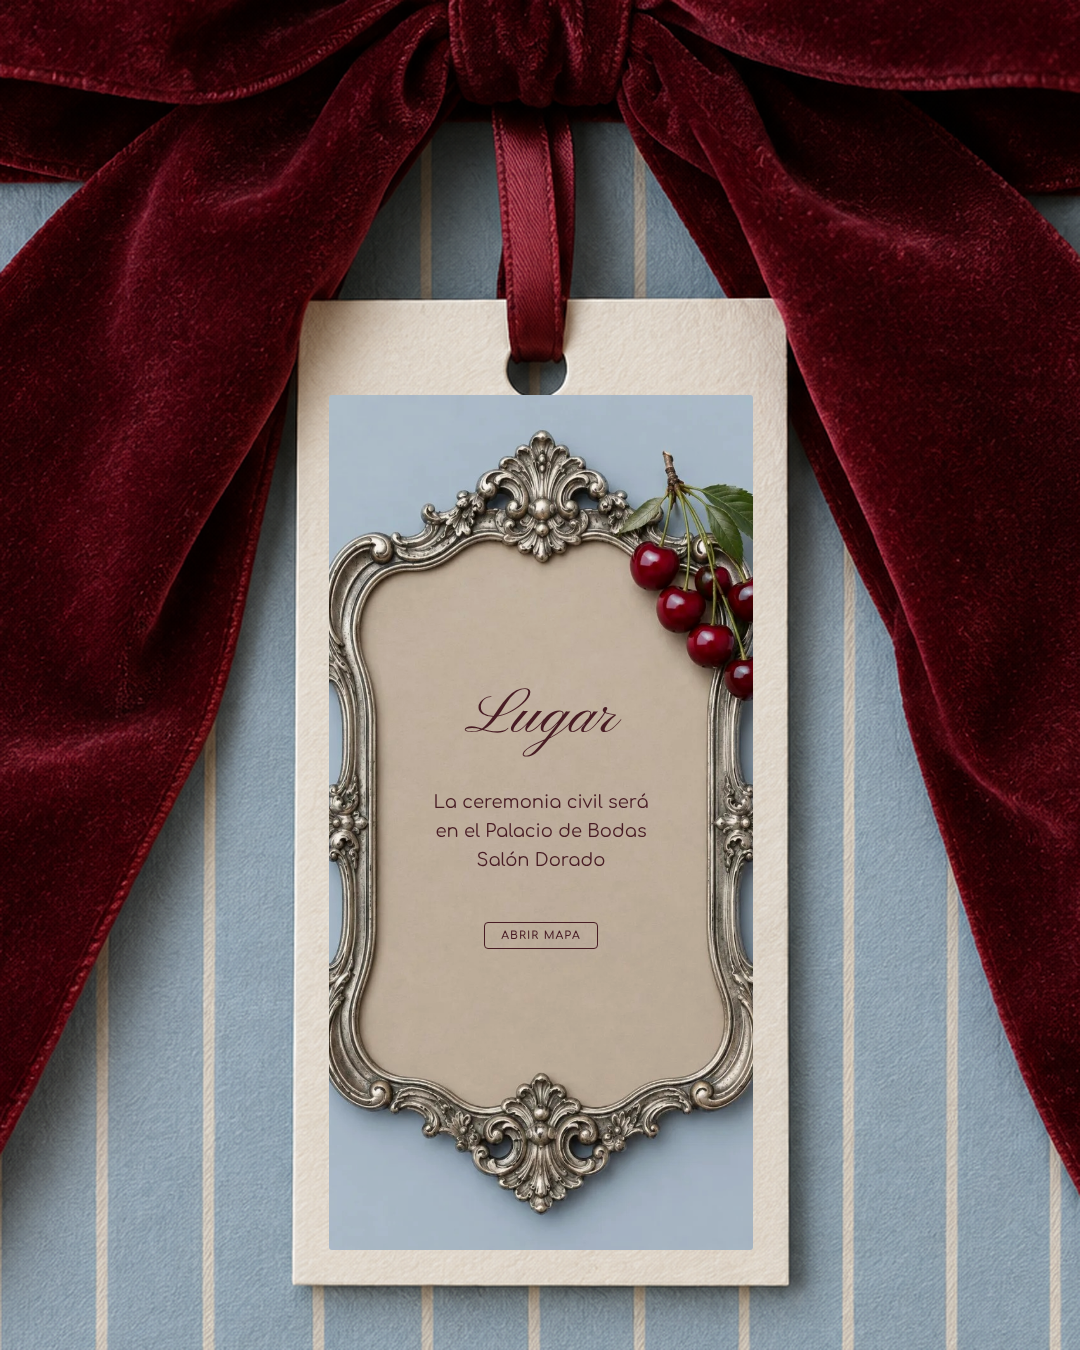
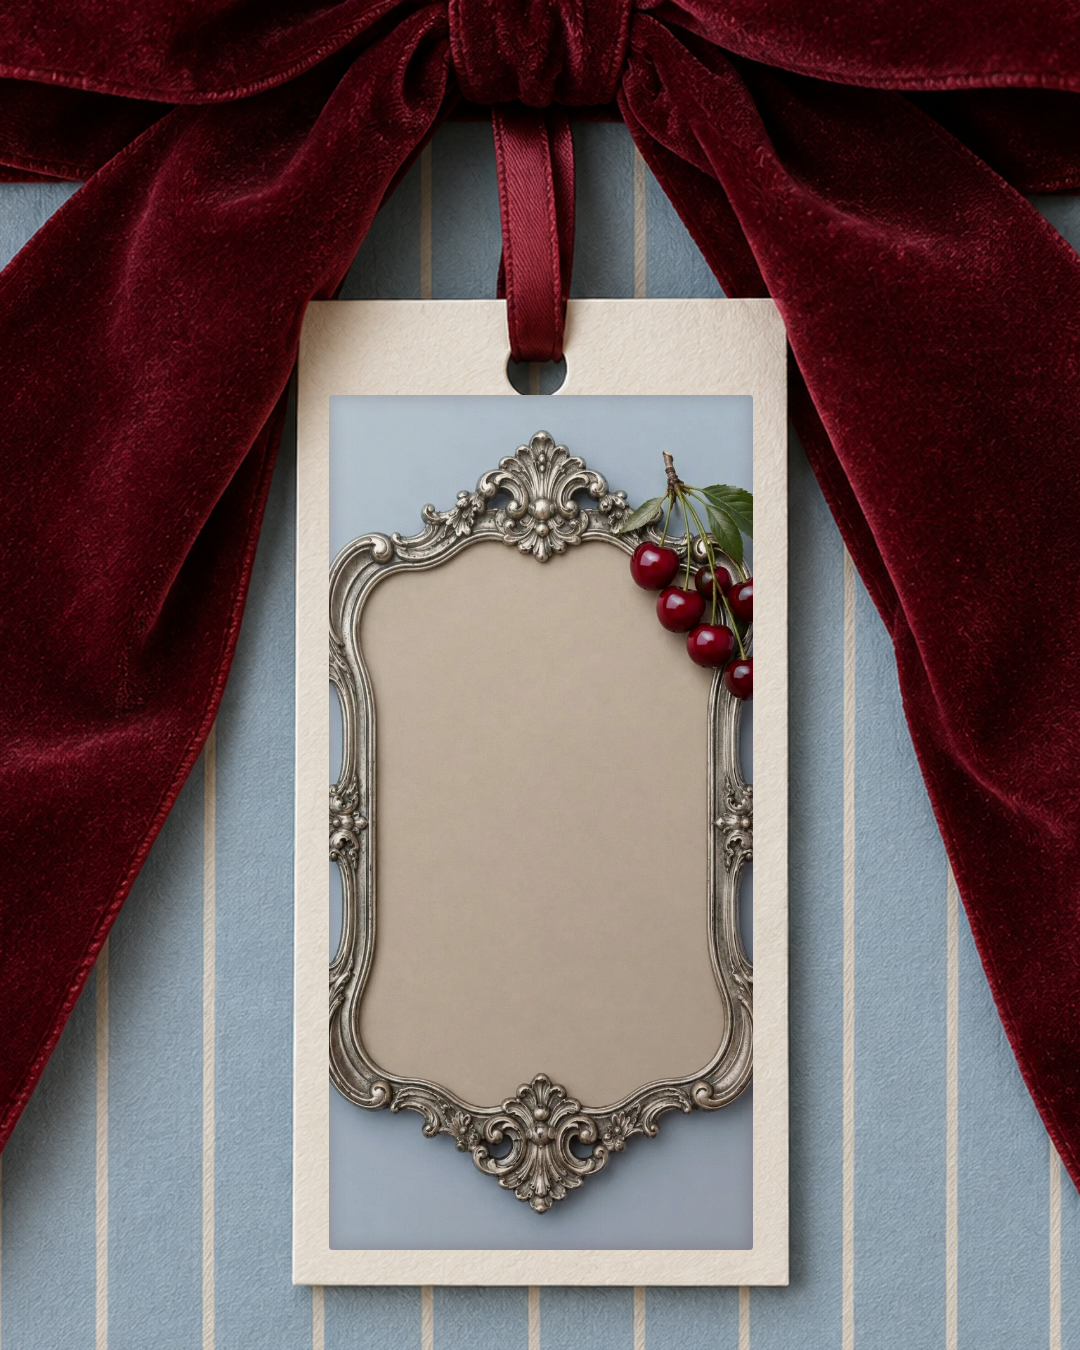
Polish velvet carousel: print realism, remove invented text, add CTA slide
Claude-Session: https://claude.ai/code/session_01EgrmTqtpGfwNVupVBLTceP

diff --git a/disenos/etiquetas/velvet-invitaciones.html b/disenos/etiquetas/velvet-invitaciones.html
@@ -1,15 +1,27 @@
 <!doctype html><html><head><meta charset="utf-8">
-<link href="https://fonts.googleapis.com/css2?family=Pinyon+Script&family=Forum&family=Comfortaa:wght@400;600&display=swap" rel="stylesheet">
+<link href="https://fonts.googleapis.com/css2?family=Pinyon+Script&family=Forum&family=Comfortaa:wght@400;600&family=Bodoni+Moda:ital,opsz,wght@0,6..96,400;1,6..96,400&display=swap" rel="stylesheet">
 <style>*{margin:0;box-sizing:border-box}body{display:flex;gap:30px;padding:30px;background:#999;width:max-content}
 .s{width:1080px;height:1350px;position:relative;overflow:hidden;background-size:cover}
 .art{position:absolute;overflow:hidden;border-radius:3px}
 .art img{width:100%;height:100%;object-fit:cover;display:block;filter:saturate(1.02) contrast(1.02)}
 .art .tex{position:absolute;inset:0;mix-blend-mode:multiply;opacity:.35;background-size:cover}
+.art{border-radius:4px;box-shadow:inset 0 0 0 1px rgba(60,20,20,.08)}
+.art:after{content:'';position:absolute;inset:0;pointer-events:none;
+ background:linear-gradient(135deg,rgba(255,250,240,.16),rgba(0,0,0,0) 40%,rgba(40,10,10,.14));box-shadow:inset 0 0 18px rgba(40,10,10,.22)}
+.grain{position:absolute;inset:0;mix-blend-mode:multiply;opacity:.35;pointer-events:none}
+.c{position:absolute;display:flex;flex-direction:column;align-items:center;justify-content:center;text-align:center;color:#5a1018;mix-blend-mode:multiply}
 .ov{position:absolute;left:0;right:0;text-align:center}
-</style></head><body>
-<div class="s" id="v1" style="background-image:url(fotos/velz1.png)"><div class="art" style="left:221px;top:541px;width:639px;height:358px"><img src="fotos/art-corazon.jpg"><div class="ov" style="top:38%;font-family:Pinyon Script;font-size:62px;color:#4a1d26;line-height:.9">Alejandro<br><span style="font-size:31px">y</span><br>Oksana</div><div class="tex" style="background:#e8dfd2"></div></div></div>
-<div class="s" id="v2" style="background-image:url(fotos/velz2.png)"><div class="art" style="left:317px;top:388px;width:445px;height:861px"><img src="fotos/art-copa.jpg"><div class="ov" style="top:3%;font-family:Forum;font-size:56px;color:#f4ecdc;letter-spacing:.08em">PLAN</div><div class="ov" style="top:9.5%;font-family:Pinyon Script;font-size:42px;color:#f4ecdc">del día</div><div class="ov" style="bottom:6%;font-family:Forum;font-size:31px;color:#f4ecdc;letter-spacing:.12em">17:00 · CEREMONIA</div><div class="tex" style="background:#e8dfd2"></div></div></div>
-<div class="s" id="v3" style="background-image:url(fotos/velz3.png)"><div class="art" style="left:344px;top:412px;width:394px;height:840px"><img src="fotos/art-anahi.jpg"><div class="tex" style="background:#e8dfd2"></div></div></div>
-<div class="s" id="v4" style="background-image:url(fotos/velz4.png)"><div class="art" style="left:331px;top:407px;width:418px;height:844px"><img src="fotos/art-geraldine.jpg" style="object-fit:contain;background:#6e1a28"><div class="tex" style="background:#e8dfd2"></div></div></div>
-<div class="s" id="v5" style="background-image:url(fotos/velz5.png)"><div class="art" style="left:329px;top:395px;width:424px;height:855px"><img src="fotos/art-espejo.jpg"><div class="ov" style="top:33%;font-family:Pinyon Script;font-size:64px;color:#4a1d26">Lugar</div><div class="ov" style="top:46%;font-family:Comfortaa,sans-serif;font-size:18px;color:#4a1d26;line-height:1.6;padding:0 22%">La ceremonia civil será en el Palacio de Bodas<br>Salón Dorado</div><div class="ov" style="top:62%;"><span style="font:600 11px Comfortaa;color:#4a1d26;border:1px solid #4a1d26;padding:6px 16px;border-radius:4px;letter-spacing:.1em">ABRIR MAPA</span></div><div class="tex" style="background:#e8dfd2"></div></div></div>
+</style></head><body><svg width="0" height="0" style="position:absolute"><filter id="pg"><feTurbulence type="fractalNoise" baseFrequency=".9" numOctaves="3" seed="7"/><feColorMatrix type="saturate" values="0"/><feComponentTransfer><feFuncA type="linear" slope=".5"/></feComponentTransfer></filter></svg>
+<div class="s" id="v1" style="background-image:url(fotos/velz1.png)"><div class="art" style="left:221px;top:541px;width:639px;height:358px"><img src="fotos/art-corazon.jpg"><div class="ov" style="top:38%;font-family:Pinyon Script;font-size:62px;color:#4a1d26;line-height:.9">Alejandro<br><span style="font-size:31px">y</span><br>Oksana</div><svg class="grain" width="100%" height="100%"><rect width="100%" height="100%" filter="url(#pg)"/></svg><div class="tex" style="background:#e8dfd2"></div></div></div>
+<div class="s" id="v2" style="background-image:url(fotos/velz2.png)"><div class="art" style="left:317px;top:388px;width:445px;height:861px"><img src="fotos/art-copa.jpg"><svg class="grain" width="100%" height="100%"><rect width="100%" height="100%" filter="url(#pg)"/></svg><div class="tex" style="background:#e8dfd2"></div></div></div>
+<div class="s" id="v3" style="background-image:url(fotos/velz3.png)"><div class="art" style="left:344px;top:412px;width:394px;height:840px"><img src="fotos/art-anahi.jpg"><svg class="grain" width="100%" height="100%"><rect width="100%" height="100%" filter="url(#pg)"/></svg><div class="tex" style="background:#e8dfd2"></div></div></div>
+<div class="s" id="v4" style="background-image:url(fotos/velz4.png)"><div class="art" style="left:331px;top:407px;width:418px;height:844px"><img src="fotos/art-geraldine.jpg" style="object-fit:contain;background:#6e1a28"><svg class="grain" width="100%" height="100%"><rect width="100%" height="100%" filter="url(#pg)"/></svg><div class="tex" style="background:#e8dfd2"></div></div></div>
+<div class="s" id="v5" style="background-image:url(fotos/velz5.png)"><div class="art" style="left:329px;top:395px;width:424px;height:855px"><img src="fotos/art-espejo.jpg"><svg class="grain" width="100%" height="100%"><rect width="100%" height="100%" filter="url(#pg)"/></svg><div class="tex" style="background:#e8dfd2"></div></div></div>
+<div class="s" id="v6" style="background-image:url(fotos/velz6.png)"><div class="c" style="left:362px;top:456px;width:358px;height:778px">
+<div style="font-family:Pinyon Script;font-size:96px;line-height:1">Invitto</div>
+<div style="font:400 15px 'Bodoni Moda';letter-spacing:.36em;margin-top:18px">INVITACIONES DIGITALES</div>
+<div style="width:60px;height:1px;background:#5a1018;margin:44px 0"></div>
+<div style="font:400 52px 'Bodoni Moda';line-height:1.05">¿hacemos<br><i>la tuya?</i></div>
+<div style="font:italic 400 22px 'Bodoni Moda';margin-top:30px;line-height:1.5">XV · bodas<br>cumpleaños · empresas</div>
+<div style="font:400 15px 'Bodoni Moda';letter-spacing:.3em;margin-top:44px;border-top:1px solid #5a1018;border-bottom:1px solid #5a1018;padding:14px 8px">MÁNDANOS DM →</div></div></div>
 </body></html>
